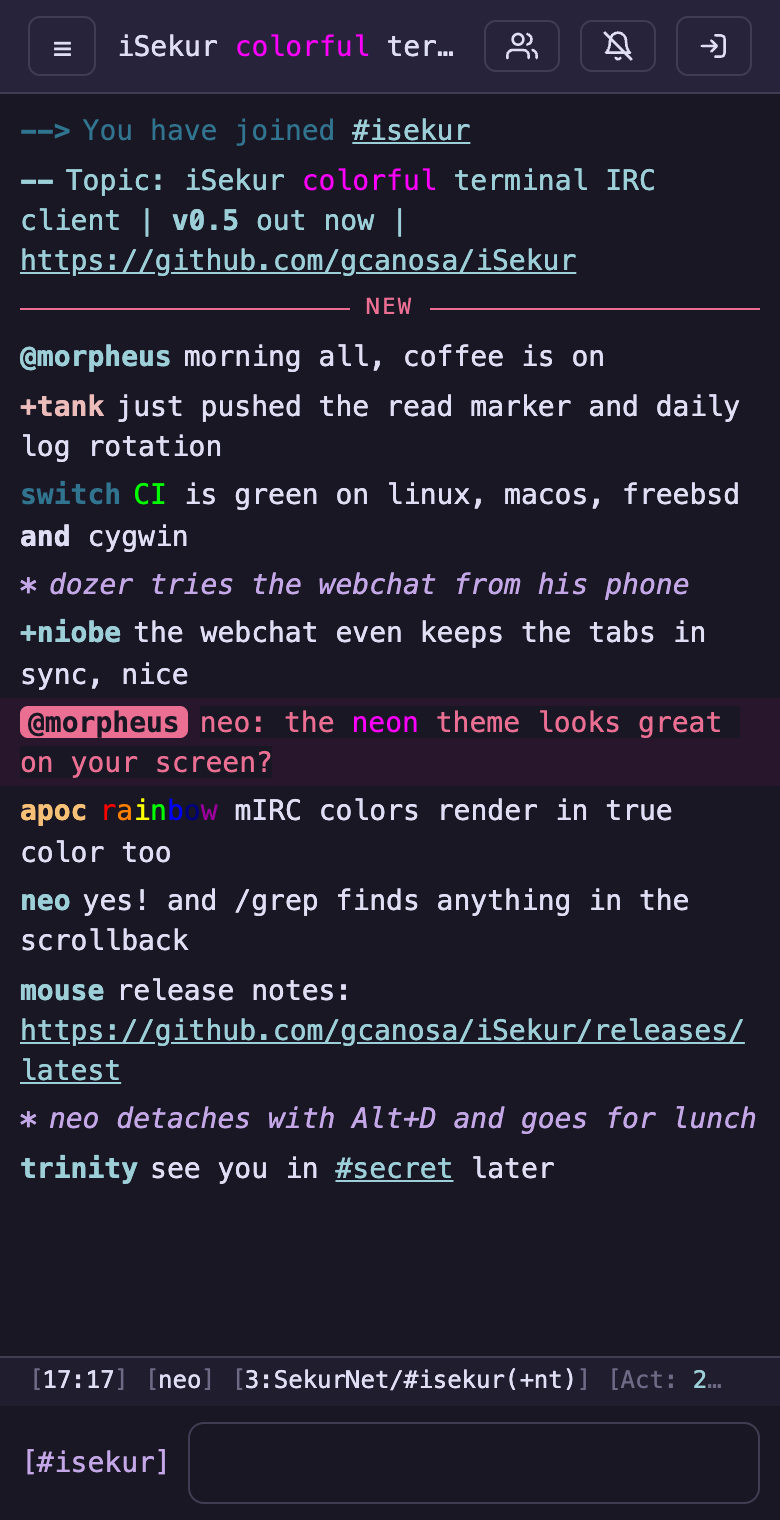
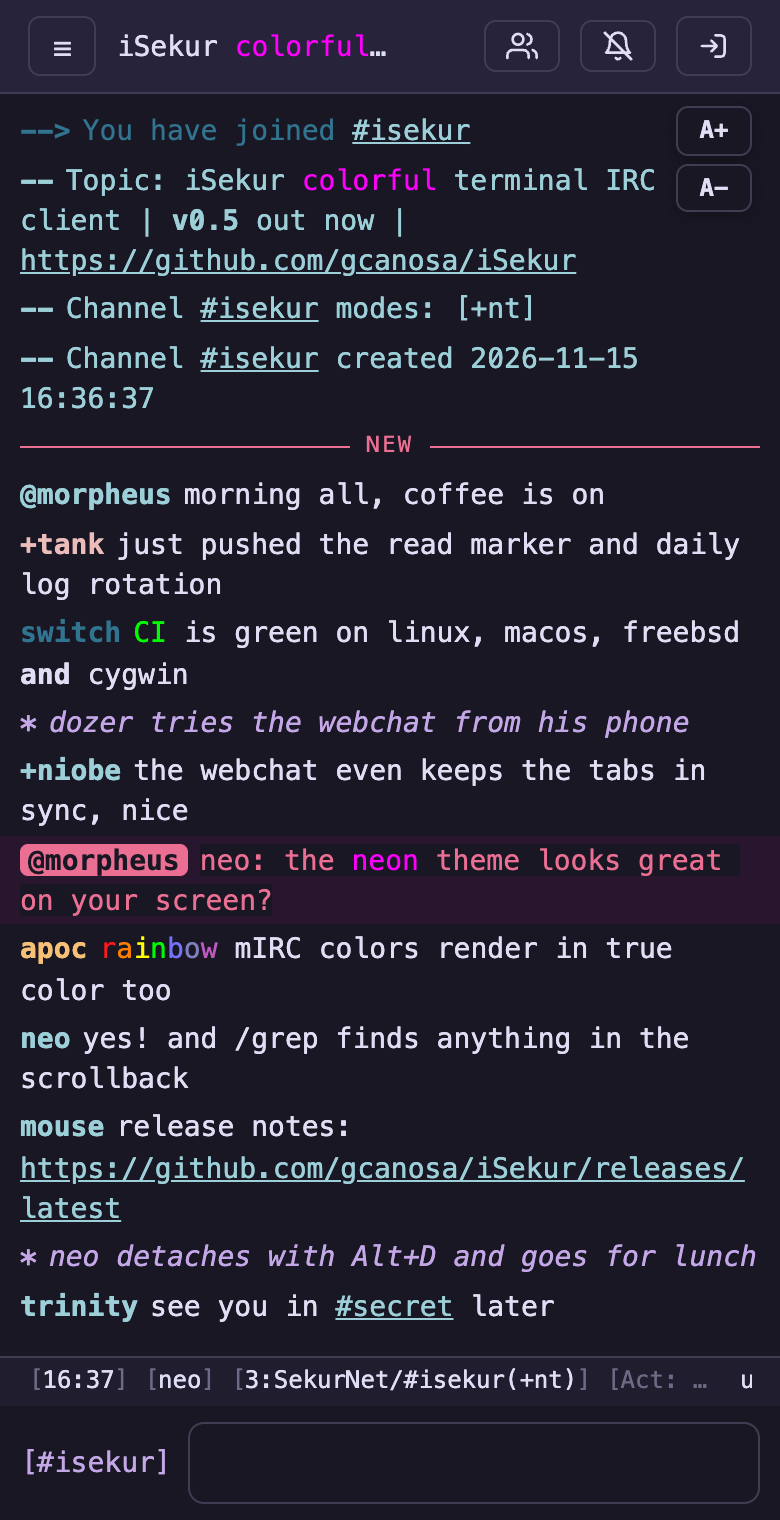
Screenshots retaken from iSekur 0.5.2+: homepage, og card, and every docs image (tools/shots now scripts the doc-* shots too, the webchat ones at 2x). 45 themes, not 37. Homepage trimmed: six short feature cards and a link to the docs, shorter leads, no webchat cards, a shorter security list with th

diff --git a/index.html b/index.html
@@ -4,7 +4,7 @@
 <meta charset="utf-8">
 <meta name="viewport" content="width=device-width, initial-scale=1">
 <title>iSekur — open source terminal IRC client with a webchat</title>
-<meta name="description" content="iSekur is a free, open source terminal IRC client for macOS and Linux: 37 color themes, IRCv3 and SASL, detach and attach like tmux, a built-in webchat that mirrors your session (bouncer style), and end-to-end encrypted chats.">
+<meta name="description" content="iSekur is a free, open source terminal IRC client for macOS and Linux: 45 color themes, IRCv3 and SASL, detach and attach like tmux, a built-in webchat that mirrors your session (bouncer style), and end-to-end encrypted chats.">
 <meta name="keywords" content="IRC client, terminal IRC client, open source IRC, IRCv3, IRC bouncer, webchat, TUI, macOS, Linux, C++">
 <meta name="author" content="Gerardo Canosa">
 <meta name="robots" content="index, follow">
@@ -14,14 +14,14 @@
 <meta property="og:site_name" content="iSekur">
 <meta property="og:url" content="https://gcanosa.github.io/isekur-site/">
 <meta property="og:title" content="iSekur — open source terminal IRC client">
-<meta property="og:description" content="37 themes, IRCv3, detach/attach like tmux, a live webchat, end-to-end encrypted queries and channels. Free for macOS and Linux.">
+<meta property="og:description" content="45 themes, IRCv3, detach/attach like tmux, a live webchat, end-to-end encrypted queries and channels. Free for macOS and Linux.">
 <meta property="og:image" content="https://gcanosa.github.io/isekur-site/img/og.png">
 <meta property="og:image:width" content="1200">
 <meta property="og:image:height" content="630">
 <meta property="og:image:alt" content="iSekur running in a terminal with the Rosé Pine theme">
 <meta name="twitter:card" content="summary_large_image">
 <meta name="twitter:title" content="iSekur — open source terminal IRC client">
-<meta name="twitter:description" content="37 themes, IRCv3, detach/attach like tmux, a live webchat and end-to-end encryption.">
+<meta name="twitter:description" content="45 themes, IRCv3, detach/attach like tmux, a live webchat and end-to-end encryption.">
 <meta name="twitter:image" content="https://gcanosa.github.io/isekur-site/img/og.png">
 <link rel="icon" href="favicon.svg" type="image/svg+xml">
 <script type="application/ld+json">
@@ -131,7 +131,6 @@ section{padding:96px 0 0}
 h2{font:700 clamp(32px,4.5vw,48px)/1.1 var(--sans);letter-spacing:-1px;margin:10px 0 14px}
 .lead{color:var(--muted);font-size:19px;max-width:720px;margin:0 0 40px}
 .grid{display:grid;grid-template-columns:repeat(auto-fill,minmax(300px,1fr));gap:16px}
-#webchat .grid{grid-template-columns:repeat(auto-fit,minmax(240px,1fr))}
 .card{background:linear-gradient(180deg,#1a1830,#141225);border:1px solid var(--line);border-radius:16px;padding:24px;position:relative;overflow:hidden}
 .card::after{content:"";position:absolute;inset:0;border-radius:inherit;pointer-events:none;background:radial-gradient(400px 120px at 0 0,var(--c,#c792ea)18,transparent)}
 .card .ic{font:700 15px var(--mono);color:var(--c,var(--violet));background:color-mix(in srgb,var(--c,#c792ea) 14%,transparent);border:1px solid color-mix(in srgb,var(--c,#c792ea) 35%,transparent);display:inline-block;padding:4px 10px;border-radius:8px;margin-bottom:14px}
@@ -240,7 +239,7 @@ footer a{color:var(--muted);text-decoration:underline}
 <header class="hero wrap">
   <span class="badge"><i></i><span id="ver">latest release</span> · GPL-3.0 · C++17</span>
   <h1>iSekur<span class="sr"> — open source terminal IRC client</span><span class="cur"></span></h1>
-  <p class="tag">A small, <em>very colorful</em> terminal IRC client, with a built-in webchat that mirrors your live session in a browser, bouncer style.</p>
+  <p class="tag">A small, <em>very colorful</em> terminal IRC client. Your live session opens in a browser too.</p>
   <div class="cta">
     <a class="btn primary" href="#install">Get iSekur →</a>
     <a class="btn" href="docs.html">Read the docs</a>
@@ -252,7 +251,7 @@ footer a{color:var(--muted);text-decoration:underline}
     <div class="term" id="term">
       <div class="tbar"><i></i><i></i><i></i><span>isekur</span></div>
       <div class="scr" id="scr">
-        <div class="row" data-c="topic">iSekur <b>colorful</b> terminal IRC client | <b>37 themes</b> | github.com/gcanosa/iSekur</div>
+        <div class="row" data-c="topic">iSekur <b>colorful</b> terminal IRC client | <b>45 themes</b> | github.com/gcanosa/iSekur</div>
         <div class="row" data-c="tabbar"><span data-c="tab_home" class="b"> 1:cmd </span> <span data-c="tab_server"> 2:SekurNet </span> <span data-c="tab_active"> 3:#isekur </span> <span data-c="tab_data"> 4:#linux </span> <span data-c="tab_msg"> 5:#retro </span> <span data-c="tab_hilight"> 6:#secret 🔒</span></div>
         <div class="body">
           <div class="chat" id="chat"></div>
@@ -280,25 +279,22 @@ footer a{color:var(--muted);text-decoration:underline}
 <section id="features">
   <div class="kicker">Features</div>
   <h2>Everything you want from IRC.<br>Nothing you have to fight.</h2>
-  <p class="lead">One small binary, OpenSSL and a config file it writes for you. A first-steps guide opens on the first start.</p>
+  <p class="lead">One small binary. A first-steps guide opens on the first start.</p>
   <div class="grid">
-    <div class="card" style="--c:#ff5fd7"><span class="ic">37 themes</span><h3>Truly colorful</h3><p>24-bit color themes, dark and light, from neon and dracula to the classic mIRC look, with a 256-color fallback. <code>/theme</code> opens a live picker.</p></div>
-    <div class="card" style="--c:#7dcfff"><span class="ic">Alt+D</span><h3>Detach &amp; attach like tmux</h3><p>Leave it running, come back from any terminal or SSH login with <code>isekur --attach</code>. A dropped connection detaches instead of quitting.</p></div>
-    <div class="card" style="--c:#9ece6a"><span class="ic">IRCv3</span><h3>Modern IRC</h3><p>TLS with verification, CAP 302, SASL PLAIN / SCRAM-SHA-256 / EXTERNAL, server-time, echo-message, chathistory catch-up and more.</p></div>
-    <div class="card" style="--c:#ffcb6b"><span class="ic">webchat</span><h3>Your session in a browser</h3><p>HTTPS + WebSocket mirror of the live client. Installs as an app, with notifications for highlights and private messages.</p></div>
-    <div class="card" style="--c:#c792ea"><span class="ic">🔒 e2e</span><h3>Encrypted queries &amp; channels</h3><p>AES-256-GCM between iSekur users, with a key from scrypt. A lock on every encrypted line and tab.</p></div>
-    <div class="card" style="--c:#ff9e64"><span class="ic">/shell</span><h3>A real terminal in a tab</h3><p>vim, top and ssh run in a tab, behind a PAM login. <code>/attach host</code> brings another machine's iSekur in live.</p></div>
-    <div class="card" style="--c:#e0af68"><span class="ic">fifo</span><h3>Scripts drive iSekur</h3><p>Write a line to the pipe and it runs as if typed, in any tab: <code>printf '%s\n' 'sekurnet/#chan|\bdeploy\b done' &gt; ~/.config/isekur/fifo</code>. Each running iSekur has its own pipe.</p></div>
-    <div class="card" style="--c:#82aaff"><span class="ic">mouse</span><h3>Click everything</h3><p>Tabs, activity numbers, nicks, links (OSC 8), right-click menus, wheel scrolling, drag to copy through OSC 52.</p></div>
-    <div class="card" style="--c:#f7768e"><span class="ic">@ops</span><h3>Channel op tools</h3><p><code>/lockdown</code>, <code>/kickban</code>, <code>/tempban</code>, mass op/voice/kick, <code>/chanstats</code>, <code>/topicrotate</code>, and a <code>*snotices</code> tab for opers.</p></div>
-    <div class="card" style="--c:#38d9a9"><span class="ic">more</span><h3>The small things</h3><p>Flood-safe pastes, <code>/grep</code> through the scrollback, a "new" marker, highlights, DCC with resume, Twitch chat, logs, a CPU/battery status bar.</p></div>
+    <div class="card" style="--c:#ff5fd7"><span class="ic">45 themes</span><h3>Truly colorful</h3><p>Dark and light 24-bit themes, from neon to the classic mIRC look. <code>/theme</code> previews them live.</p></div>
+    <div class="card" style="--c:#7dcfff"><span class="ic">Alt+D</span><h3>Detach &amp; attach</h3><p>Like tmux, built in. Come back from any terminal or SSH login.</p></div>
+    <div class="card" style="--c:#ffcb6b"><span class="ic">webchat</span><h3>Your session in a browser</h3><p>The same live session on your phone, installable as an app.</p></div>
+    <div class="card" style="--c:#c792ea"><span class="ic">🔒 e2e</span><h3>Encrypted chats</h3><p>Queries and channels only the people with the password can read.</p></div>
+    <div class="card" style="--c:#9ece6a"><span class="ic">IRCv3</span><h3>Modern IRC</h3><p>TLS, SASL, chat history, replies, reactions and typing.</p></div>
+    <div class="card" style="--c:#ff9e64"><span class="ic">/shell</span><h3>A terminal in a tab</h3><p>vim, top and ssh in a tab, behind your login.</p></div>
   </div>
+  <p style="margin-top:18px">And op tools, DCC, Twitch, scripts, aliases, mouse support… <a href="docs.html">all in the docs →</a></p>
 </section>
 
 <section id="themes">
   <div class="kicker">The real thing</div>
-  <h2>Same chat, six of the 37 themes.</h2>
-  <p class="lead">Screenshots of iSekur running in a terminal. A theme changes everything: the bars, the tabs, the nicklist, the timestamps, the nick colors, even the layout (mIRC puts <code>&lt;nicks&gt;</code> inline).</p>
+  <h2>Same chat, six of the 45 themes.</h2>
+  <p class="lead">Real screenshots. A theme changes the bars, tabs, nicklist, nick colors, even the layout.</p>
   <div class="gal-tabs" role="tablist"><button role="tab" aria-selected="true" data-g="mirc">mIRC</button><button role="tab" aria-selected="false" data-g="rose-pine">Rosé Pine</button><button role="tab" aria-selected="false" data-g="ayu">Ayu</button><button role="tab" aria-selected="false" data-g="neon">Neon</button><button role="tab" aria-selected="false" data-g="catppuccin-latte">Catppuccin Latte</button><button role="tab" aria-selected="false" data-g="dracula">Dracula</button></div>
   <div class="gal" id="gal"><img class="on" data-g="mirc" src="img/chat-mirc.png" alt="iSekur in the mIRC theme: topic bar, tabs, chat with a new marker, nicklist and status bar" width="1718" height="960"><img data-g="rose-pine" src="img/chat-rose-pine.png" alt="iSekur in the Rosé Pine theme: topic bar, tabs, chat with a new marker, nicklist and status bar" width="1718" height="960"><img data-g="ayu" src="img/chat-ayu.png" alt="iSekur in the Ayu theme: topic bar, tabs, chat with a new marker, nicklist and status bar" width="1718" height="960"><img data-g="neon" src="img/chat-neon.png" alt="iSekur in the Neon theme: topic bar, tabs, chat with a new marker, nicklist and status bar" width="1718" height="960"><img data-g="catppuccin-latte" src="img/chat-catppuccin-latte.png" alt="iSekur in the Catppuccin Latte theme: topic bar, tabs, chat with a new marker, nicklist and status bar" width="1718" height="960"><img data-g="dracula" src="img/chat-dracula.png" alt="iSekur in the Dracula theme: topic bar, tabs, chat with a new marker, nicklist and status bar" width="1718" height="960"></div>
 </section>
@@ -306,7 +302,7 @@ footer a{color:var(--muted);text-decoration:underline}
 <section id="tools">
   <div class="kicker">Built in</div>
   <h2>Windows for everything, inside the terminal.</h2>
-  <p class="lead">No config file spelunking: every setting and every theme is a keystroke away.</p>
+  <p class="lead">Every setting and every theme is a keystroke away.</p>
   <div class="duo">
     <figure><img width="1718" height="1096" class="shot" src="img/theme-picker.png" alt="The /theme picker previewing dayfox live over the chat" loading="lazy"><figcaption><b>/theme</b>: ↑↓ previews each theme live, type to filter, Enter keeps it</figcaption></figure>
     <figure><img width="1718" height="1096" class="shot" src="img/settings.png" alt="The /set settings window with categories and values" loading="lazy"><figcaption><b>/set</b>: every key by category, / searches, e edits, Space toggles</figcaption></figure>
@@ -318,7 +314,7 @@ footer a{color:var(--muted);text-decoration:underline}
     <div class="txt">
       <div class="kicker">Always on</div>
       <h2>Close the laptop.<br>Stay in the channel.</h2>
-      <p class="lead">The IRC side lives in a background process and your terminal is only attached to it. Run several side by side, one config each.</p>
+      <p class="lead">iSekur keeps running in the background. Your terminal just attaches to it.</p>
     </div>
     <pre class="sh"><span class="p">$ </span>isekur              <span class="c"># start, or attach if it's running</span>
   <span class="c">Alt+D / /detach     # back to the shell, still connected</span>
@@ -332,16 +328,10 @@ footer a{color:var(--muted);text-decoration:underline}
 <section id="webchat">
   <div class="kicker">Webchat</div>
   <h2>The same session, on your phone.</h2>
-  <p class="lead">Not a separate client: the browser mirrors the live terminal session, the way a bouncer would. <code>/web start</code> and log in.</p>
+  <p class="lead">The browser mirrors the live terminal session. <code>/web start</code> and log in.</p>
   <div class="webwrap">
     <div class="browser"><div class="tbar"><i></i><i></i><i></i><a href="https://webchat.sekurnet.org" style="text-decoration:none"><span>https://webchat.sekurnet.org</span></a></div><img width="2480" height="1040" src="img/web-rose.png" alt="The iSekur webchat in the Rosé Pine theme: tab list, chat, nicklist, status bar and input line" loading="lazy"></div>
     <div class="phone"><img width="780" height="1520" src="img/web-phone.png" alt="The webchat on a phone" loading="lazy"></div>
-  </div>
-  <div class="grid">
-    <div class="card" style="--c:#7dcfff"><span class="ic">mirror</span><h3>Same everything</h3><p>The same tabs, nick and tab menus, input line, suggestions, status bar and theme colors as the terminal.</p></div>
-    <div class="card" style="--c:#c792ea"><span class="ic">PWA</span><h3>Installs as an app</h3><p>Put it on the home screen or the dock, with notifications for highlights and private messages.</p></div>
-    <div class="card" style="--c:#9ece6a"><span class="ic">login</span><h3>Locked down</h3><p>HTTPS + WebSocket, a PBKDF2 password hash and a lockout after failed tries.</p></div>
-    <div class="card" style="--c:#ffcb6b"><span class="ic">⚙</span><h3>Settings in place</h3><p>⚙ edits every setting with switches and a theme list, + adds a server, ⇅ downloads DCC files, seedbox style.</p></div>
   </div>
   <div class="duo" style="margin-top:28px">
     <figure><div class="browser"><div class="tbar"><i></i><i></i><i></i><span>mIRC theme</span></div><img width="2560" height="1520" src="img/web-mirc.png" alt="The webchat in the mIRC theme" loading="lazy"></div><figcaption>The <b>mIRC</b> theme in the browser…</figcaption></figure>
@@ -354,7 +344,7 @@ footer a{color:var(--muted);text-decoration:underline}
     <div class="txt">
       <div class="kicker">Built-in BNC</div>
       <h2>Your session,<br>in any IRC client.</h2>
-      <p class="lead">iSekur is a bouncer too. irssi, weechat, hexchat, mIRC, a phone app or another iSekur connect to it and share the live session: the same channels, the recent lines, then everything as it happens. Chat history, replies, reactions and typing come along for IRCv3 clients.</p>
+      <p class="lead">iSekur is a bouncer too. irssi, WeeChat, HexChat, mIRC or a phone app connect to it and share the live session.</p>
       <p><a href="docs.html#bnc">Set it up in two minutes →</a></p>
     </div>
     <pre class="sh">  /set bnc.user me
@@ -373,20 +363,19 @@ footer a{color:var(--muted);text-decoration:underline}
       <div class="kicker">Security</div>
       <h2>Private by default.</h2>
       <ul class="ticks">
-        <li><code>/e2e nick</code> or <code>/e2e #chan</code>: AES-256-GCM, keys kept in memory</li>
-        <li><code>/lock on</code>: a master password before any tab, log or message</li>
-        <li><code>/shell</code> checks your login through PAM and is never reachable from the web or IRC</li>
-        <li>TLS certificate verification and SASL out of the box</li>
+        <li><code>/e2e</code>: encrypted queries and channels</li>
+        <li><code>/lock</code>: a password before anything shows, Face ID in the webchat</li>
+        <li>TLS verified and SASL out of the box</li>
       </ul>
     </div>
-    <img class="shot" src="https://raw.githubusercontent.com/gcanosa/iSekur/main/docs/e2e.png" alt="An encrypted channel with a lock on the tab and on every line" >
+    <img class="shot" width="1718" height="1028" src="img/doc-e2e.png" alt="An encrypted channel with a lock on the tab and on every line" loading="lazy">
   </div>
 </section>
 
 <section id="compare">
   <div class="kicker">Compared</div>
   <h2>Where it fits.</h2>
-  <p class="lead">irssi, WeeChat, HexChat, mIRC and The Lounge are fine clients. iSekur puts the bouncer, the webchat and the encryption in one binary, so there's nothing to bolt on.</p>
+  <p class="lead">The bouncer, the webchat and the encryption come in one binary.</p>
   <div class="cmp"><table>
     <thead><tr><th></th><th class="me">iSekur</th><th>WeeChat</th><th>irssi</th><th>HexChat</th><th>mIRC</th><th>The Lounge</th></tr></thead>
     <tbody>
@@ -402,7 +391,7 @@ footer a{color:var(--muted);text-decoration:underline}
       <tr><td>Open source, maintained</td><td class="me y">✓</td><td class="y">✓</td><td class="y">✓</td><td>archived</td><td>shareware</td><td class="y">✓</td></tr>
     </tbody>
   </table></div>
-  <p class="cmp-note">tmux: through screen or tmux. relay / add-on: WeeChat's relay plus a separate app. iSekur attaches over ssh, or as a tab with <code>/attach host</code>. script / plugin / DLL: FiSH or OTR, installed separately. IRCv3: iSekur also speaks the drafts, chathistory, multiline, read markers, redaction, replies, reactions and typing. IRCCloud is left out: it's a hosted service, not a client you install.</p>
+  <p class="cmp-note">tmux, relay, script, plugin: an extra tool or add-on to install.</p>
 </section>
 
 <section id="install">
@@ -434,7 +423,7 @@ footer a{color:var(--muted);text-decoration:underline}
       <a href="https://github.com/gcanosa/iSekur/releases/latest/download/isekur-windows-x86_64.zip"><svg class="os"><use href="#os-windows"/></svg>Windows<small><span class="pill x64"><svg class="arch"><use href="#arch-chip"/></svg>x86_64</span>Cygwin build</small></a>
       <a href="https://github.com/gcanosa/iSekur/releases/latest/download/isekur-src.tar.gz"><svg class="os"><use href="#os-src"/></svg>Source<small>tar.gz</small></a>
     </div>
-    <p class="dlnote">Windows: unzip it anywhere and run <code>isekur.cmd</code> in Windows Terminal. Nothing to install, but it is the newest and least tried build, and Cygwin can't do <code>/shell</code> or detach and attach. For all of iSekur on Windows, use <a href="https://learn.microsoft.com/windows/wsl/install">WSL</a> with the Linux package.</p>
+    <p class="dlnote">Windows: unzip and run <code>isekur.cmd</code>. It can't do <code>/shell</code> or detach; for everything use <a href="https://learn.microsoft.com/windows/wsl/install">WSL</a> with the Linux package.</p>
   </div>
   <div class="panel" id="p-src" hidden><pre class="sh"><span class="c"># needs a C++17 compiler, GNU make, OpenSSL 1.1+/LibreSSL and PAM</span>
 <span class="p">$ </span>git clone https://github.com/gcanosa/iSekur && cd iSekur

diff --git a/docs.html b/docs.html
@@ -211,7 +211,7 @@ man isekur</pre>
 /save                                  <span class="c"># writes them to the file (comments are kept)</span></pre>
 <p>Server settings take effect on the next <code>/connect</code>, and <code>[web]</code> after <code>/web stop</code> and <code>/web start</code>. <code>/reload</code> re-reads the file after you edit it by hand.</p>
 <p>The first start also opens the <a href="#guide">first steps guide</a> in a <code>*guide</code> tab. Its "Don't show this at startup" box sets <code>show_guide = off</code>, and <code>/guide</code> opens it again.</p>
-<figure class="shot"><a href="img/doc-welcome.png" target="_blank" rel="noopener"><img width="1722" height="1024" src="img/doc-welcome.png" alt="The iSekur welcome tab with the banner" loading="lazy"></a><figcaption>The cmd tab after starting: the banner in the theme's colors, the <code>/guide</code> hint and where the webchat listens</figcaption></figure>
+<figure class="shot"><a href="img/doc-welcome.png" target="_blank" rel="noopener"><img width="1718" height="1028" src="img/doc-welcome.png" alt="The iSekur welcome tab with the banner" loading="lazy"></a><figcaption>The cmd tab after starting: the banner in the theme's colors, the <code>/guide</code> hint and where the webchat listens</figcaption></figure>
 <div class="tip">The quickest way in: <code>/server irc.sekurnet.org 6697 -tls -name sekurnet</code>, then <code>/join #iSekur</code>. That's iSekur's own channel, for help and feedback.</div>
 
 <h2 id="guide">First steps guide</h2>
@@ -231,7 +231,7 @@ man isekur</pre>
 </ul>
 
 <figure class="shot"><a href="img/chat-rose-pine.png" target="_blank" rel="noopener"><img width="1718" height="960" src="img/chat-rose-pine.png" alt="The iSekur screen in the Rosé Pine theme" loading="lazy"></a><figcaption>Top to bottom: topic bar, tabs, chat with the "new" marker and the nicklist, status bar, input line (Rosé Pine theme)</figcaption></figure>
-<div class="duo"><figure class="shot"><a href="img/doc-list.png" target="_blank" rel="noopener"><img width="1722" height="1024" src="img/doc-list.png" alt="The channel list table" loading="lazy"></a><figcaption><code>/list</code> opens a sortable table: double click a channel to join. The status bar shows CPU, memory and load (<code>/statusbar</code>)</figcaption></figure><figure class="shot"><a href="img/doc-whois.png" target="_blank" rel="noopener"><img width="1722" height="1024" src="img/doc-whois.png" alt="A whois reply" loading="lazy"></a><figcaption><code>/whois</code> answers in a box, in the tab you asked from</figcaption></figure></div>
+<div class="duo"><figure class="shot"><a href="img/doc-list.png" target="_blank" rel="noopener"><img width="1718" height="1028" src="img/doc-list.png" alt="The channel list table" loading="lazy"></a><figcaption><code>/list</code> opens a sortable table: double click a channel to join. The status bar shows CPU, memory and load (<code>/statusbar</code>)</figcaption></figure><figure class="shot"><a href="img/doc-whois.png" target="_blank" rel="noopener"><img width="1718" height="1028" src="img/doc-whois.png" alt="A whois reply" loading="lazy"></a><figcaption><code>/whois</code> answers in a box, in the tab you asked from</figcaption></figure></div>
 <h2 id="keys">Keys</h2>
 <table>
 <tr><th>Key</th><th>Action</th></tr>
@@ -252,7 +252,7 @@ man isekur</pre>
 <tr><td><kbd>Alt+Backspace</kbd></td><td>Delete the previous word</td></tr>
 <tr><td><kbd>Ctrl+B</kbd> <kbd>C</kbd> <kbd>O</kbd> <kbd>V</kbd> <kbd>]</kbd> <kbd>_</kbd></td><td>mIRC formatting: bold, color, reset, reverse, italic, underline</td></tr>
 </table>
-<div class="duo"><figure class="shot"><a href="img/doc-suggest.png" target="_blank" rel="noopener"><img width="1722" height="1024" src="img/doc-suggest.png" alt="Live command suggestions above the input line" loading="lazy"></a><figcaption>Typing a command lists what fits, with its arguments: <kbd>↑</kbd> <kbd>↓</kbd> pick, <kbd>Tab</kbd> completes</figcaption></figure><figure class="shot"><a href="img/doc-find.png" target="_blank" rel="noopener"><img width="1722" height="1024" src="img/doc-find.png" alt="The tab finder" loading="lazy"></a><figcaption><kbd>Ctrl+G</kbd> finds a tab by part of its name, Enter goes there</figcaption></figure></div>
+<div class="duo"><figure class="shot"><a href="img/doc-suggest.png" target="_blank" rel="noopener"><img width="1718" height="1028" src="img/doc-suggest.png" alt="Live command suggestions above the input line" loading="lazy"></a><figcaption>Typing a command lists what fits, with its arguments: <kbd>↑</kbd> <kbd>↓</kbd> pick, <kbd>Tab</kbd> completes</figcaption></figure><figure class="shot"><a href="img/doc-find.png" target="_blank" rel="noopener"><img width="1718" height="1028" src="img/doc-find.png" alt="The tab finder" loading="lazy"></a><figcaption><kbd>Ctrl+G</kbd> finds a tab by part of its name, Enter goes there</figcaption></figure></div>
 <p>On a Mac, Option works as Alt (Option+D detaches). Rebind any action in the <code>[keys]</code> section: <code>M-</code> is Alt, <code>C-</code> Ctrl, <code>D-</code> Cmd. See <a href="#set-keys">[keys]</a>.</p>
 
 <h2 id="mouse">Mouse</h2>
@@ -265,7 +265,7 @@ man isekur</pre>
   <li>Double click a <code>#channel</code> anywhere to join it.</li>
 </ul>
 
-<figure class="shot"><a href="img/doc-nickmenu.png" target="_blank" rel="noopener"><img width="1722" height="1024" src="img/doc-nickmenu.png" alt="The nick right-click menu" loading="lazy"></a><figcaption>Right click a nick: query, whois, CTCPs, ignore, plus op tools when your rank allows</figcaption></figure>
+<figure class="shot"><a href="img/doc-nickmenu.png" target="_blank" rel="noopener"><img width="1718" height="1028" src="img/doc-nickmenu.png" alt="The nick right-click menu" loading="lazy"></a><figcaption>Right click a nick: query, whois, CTCPs, ignore, plus op tools when your rank allows</figcaption></figure>
 <h2 id="detach">Detach and attach</h2>
 <p>iSekur runs like a tmux session. The IRC side lives in a background process, and your terminal is only attached to it.</p>
 <pre>isekur              <span class="c"># start (or attach, if it's already running)</span>
@@ -367,15 +367,15 @@ backlog       = 50                  <span class="c"># lines of each tab a client
 <h3>Lock: /lock</h3>
 <p><code>/lock on</code> sets a master password. From then on, iSekur shows only a password box at startup, on every <code>--attach</code> and after <code>/lock</code>, before any tab, log or message. Three wrong tries wait a minute. <code>/lock off</code> asks for it before turning it off, and <code>/lock on</code> again changes it. It is also asked before changing what would let a hijacked webchat session reach further: <code>exec_web</code>, <code>dcc_web</code>, <code>dcc_dir</code>, the <code>[web]</code> and <code>[bnc]</code> settings and <code>/bnc password</code>.</p>
 <div class="tip warn">It locks the screen, not the files: the config and logs aren't encrypted. Forgot the password? Stop iSekur (<code>pkill isekur</code>), set <code>lock = off</code> in the config and start it again.</div>
-<figure class="shot"><a href="img/doc-lock.png" target="_blank" rel="noopener"><img width="1722" height="1024" src="img/doc-lock.png" alt="The iSekur lock screen" loading="lazy"></a><figcaption><code>/lock</code>: nothing of the session shows until the password is typed</figcaption></figure>
+<figure class="shot"><a href="img/doc-lock.png" target="_blank" rel="noopener"><img width="1718" height="1028" src="img/doc-lock.png" alt="The iSekur lock screen" loading="lazy"></a><figcaption><code>/lock</code>: nothing of the session shows until the password is typed</figcaption></figure>
 <h3>Encrypted private chats: /e2e nick</h3>
 <p><code>/e2e nick</code> (alias <code>/sq</code>) asks for a password, typed hidden, and invites the other person. They accept with <code>/e2e yournick</code> and the same password. A matching password turns on AES-256-GCM for that query, with the key derived by scrypt, and both sides see 🔒. A wrong one is reported to both and nothing is encrypted. Keys stay in memory only, and <code>/e2e off</code> ends it on both sides: the line it sends is sealed with the key, so a line anyone else could send (the server included) can't end a chat that is on, fail it or replace its key. A new invitation from the same nick waits for your <code>/e2e nick</code>.</p>
 <h3>Encrypted channels: /e2e #chan</h3>
 <p><code>/e2e #chan</code> (or "Turn on E2E" in the tab menu) encrypts what you say there. Everyone who typed the same password reads it, marked 🔒 on each line and on the tab. Everyone else sees <code>+iSE</code> noise. There's no handshake, so a wrong password only shows when the others' lines don't open. To drop someone, change the password. For autojoin channels the key (not the password) is saved in <code>e2e_keys</code>, so a restart doesn't ask again.</p>
-<div class="duo"><figure class="shot"><a href="img/doc-e2e.png" target="_blank" rel="noopener"><img width="1722" height="1024" src="img/doc-e2e.png" alt="An E2E encrypted channel in the terminal" loading="lazy"></a><figcaption>An encrypted channel in the terminal: 🔒 on the tab and every line. cypher has the wrong password</figcaption></figure><figure class="shot"><div class="browser"><div class="bar"><i></i><i></i><i></i><span>https://webchat.sekurnet.org</span></div><a href="img/doc-web-e2e.png" target="_blank" rel="noopener"><img width="1100" height="640" src="img/doc-web-e2e.png" alt="An E2E encrypted channel in the webchat" loading="lazy"></a></div><figcaption>The same channel in the webchat</figcaption></figure></div>
+<div class="duo"><figure class="shot"><a href="img/doc-e2e.png" target="_blank" rel="noopener"><img width="1718" height="1028" src="img/doc-e2e.png" alt="An E2E encrypted channel in the terminal" loading="lazy"></a><figcaption>An encrypted channel in the terminal: 🔒 on the tab and every line. cypher has the wrong password</figcaption></figure><figure class="shot"><div class="browser"><div class="bar"><i></i><i></i><i></i><span>https://webchat.sekurnet.org</span></div><a href="img/doc-web-e2e.png" target="_blank" rel="noopener"><img width="1100" height="640" src="img/doc-web-e2e.png" alt="An E2E encrypted channel in the webchat" loading="lazy"></a></div><figcaption>The same channel in the webchat</figcaption></figure></div>
 <h3>A real shell: /shell</h3>
 <p><code>/shell</code> opens your <code>$SHELL</code> as a login shell in a tab, after checking this machine's login and password through PAM (<code>pam_service</code>, default <code>login</code>). vim, top, ssh and Ctrl+C all work. Three wrong logins lock it for a minute. It's never reachable from the webchat or from IRC, only from the terminal iSekur runs in.</p>
-<figure class="shot"><a href="img/doc-shell-login.png" target="_blank" rel="noopener"><img width="1752" height="1088" src="img/doc-shell-login.png" alt="The /shell login dialog" loading="lazy"></a><figcaption><code>/shell</code> asks for this machine's login, checked through PAM</figcaption></figure>
+<figure class="shot"><a href="img/doc-shell-login.png" target="_blank" rel="noopener"><img width="1718" height="1028" src="img/doc-shell-login.png" alt="The /shell login dialog" loading="lazy"></a><figcaption><code>/shell</code> asks for this machine's login, checked through PAM</figcaption></figure>
 <h3>Shell commands: /exec</h3>
 <p><code>/exec ls -la</code> (alias <code>/sh</code>) streams the output into the cmd tab. It runs in bash or zsh: your login shell when it is one of them. <code>/exec -o uptime</code> says it in the current channel. Commands are killed after <code>exec_timeout</code> seconds, and the webchat can't run them unless <code>exec_web = on</code>.</p>
 
@@ -398,7 +398,7 @@ printf '%s\n' 'sekurnet/#chan|hello' &gt; ~/.config/isekur/fifo</pre>
 <div class="tip warn">POSIX only (Linux, macOS, BSDs, Cygwin): native Windows has no named pipes. The pipe is owner-only, ignored while iSekur is locked, and removed at exit.</div>
 
 <h2 id="themes">Themes</h2>
-<p>iSekur comes with 37 24-bit color themes, with a 256-color fallback for terminals that need it (<code>colors = 256</code>). <code>/theme</code> alone opens a picker that previews each one live; <code>/theme name</code> switches directly. Themes are saved without <code>/save</code>.</p>
+<p>iSekur comes with 45 24-bit color themes, with a 256-color fallback for terminals that need it (<code>colors = 256</code>). <code>/theme</code> alone opens a picker that previews each one live; <code>/theme name</code> switches directly. Themes are saved without <code>/save</code>.</p>
 <p>Dark: default, neon, dracula, tokyonight, catppuccin-mocha, gruvbox, nord, onedark, rose-pine, kanagawa, solarized, github-dark, everforest, ayu, nightfox, night-owl, material, contrast-dark. Light: tokyonight-day, catppuccin-latte, gruvbox-light, rose-pine-dawn, solarized-light, github-light, one-light, kanagawa-lotus, nord-light, everforest-light, ayu-light, dayfox, light-owl, material-lighter, contrast-light. Classic: mirc, mirc-dark. <a href="./#themes">See them on the home page.</a></p>
 <div class="duo"><figure class="shot"><a href="img/theme-picker.png" target="_blank" rel="noopener"><img width="1718" height="1096" src="img/theme-picker.png" alt="The theme picker" loading="lazy"></a><figcaption><code>/theme</code>: ↑↓ previews each theme live over your chat</figcaption></figure><figure class="shot"><a href="img/chat-mirc.png" target="_blank" rel="noopener"><img width="1718" height="960" src="img/chat-mirc.png" alt="The mIRC theme" loading="lazy"></a><figcaption>mirc: inline <code>&lt;nicks&gt;</code> and brackets, set by the theme's <code>[layout]</code></figcaption></figure></div>
 <h3>Writing your own</h3>
@@ -605,7 +605,7 @@ end)</pre>
 
 <h2 id="commands"><small>Reference</small>Commands</h2>
 <p>Every command, as <code>/help command</code> shows it. Words in grey are arguments, <code>[ ]</code> marks optional ones and <code>|</code> separates choices. Any command iSekur doesn't know goes to the server unchanged.</p>
-<figure class="shot"><a href="img/doc-help-server.png" target="_blank" rel="noopener"><img width="1722" height="1024" src="img/doc-help-server.png" alt="The /help server output" loading="lazy"></a><figcaption><code>/help server</code> in the app: the same text and examples as below</figcaption></figure>
+<figure class="shot"><a href="img/doc-help-server.png" target="_blank" rel="noopener"><img width="1718" height="1028" src="img/doc-help-server.png" alt="The /help server output" loading="lazy"></a><figcaption><code>/help server</code> in the app: the same text and examples as below</figcaption></figure>
 <div><div class="search"><input id="q" type="search" placeholder="Filter commands: name, word, e.g. ban, tls, away…" aria-label="Filter commands"></div>
 <div id="cmds"><p class="empty">Loading…</p></div></div>
 

diff --git a/tools/shots/web.js b/tools/shots/web.js
@@ -20,5 +20,16 @@ const { chromium } = require(process.env.PWC);
   await p.screenshot({ path: "out/web-mirc.png" });
   await p.click("#setbtn"); await p.waitForTimeout(1500);
   await p.screenshot({ path: "out/web-set.png" });
+  // docs section: login, an E2E channel, the Servers window
+  const d = await b.newContext({ ignoreHTTPSErrors: true, deviceScaleFactor: 2, viewport: { width: 1100, height: 640 } });
+  const r = await d.newPage(); await r.goto(url); await r.waitForTimeout(800);
+  await r.screenshot({ path: "out/doc-web-login.png" });
+  await r.fill("#lu", "me"); await r.fill("#lp", "shot"); await r.press("#lp", "Enter");
+  await r.waitForSelector("#msgs >> text=see you in", { timeout: 15000 });
+  await r.fill("#line", "/theme rose-pine"); await r.press("#line", "Enter"); await r.waitForTimeout(1200);
+  await r.click("#side .tab >> text=#secret"); await r.waitForTimeout(1200);
+  await r.screenshot({ path: "out/doc-web-e2e.png" });
+  await r.click("#addsrv"); await r.waitForTimeout(1200);
+  await r.screenshot({ path: "out/doc-web-servers.png" });
   await b.close();
 })().catch(e => { console.error(e); process.exit(1); });

diff --git a/tools/shots/og.html b/tools/shots/og.html
@@ -5,4 +5,4 @@ h1{position:absolute;left:68px;top:40px;margin:0;font:700 112px/1.2 ui-monospace
 p{position:absolute;left:68px;top:176px;width:440px;margin:0;font:700 26px/1.45 -apple-system,sans-serif}
 .f{position:absolute;left:68px;bottom:56px;font:22px ui-monospace,"SF Mono",Menlo,monospace;color:#b9b3c8}
 img{position:absolute;left:520px;top:80px;width:704px}
-</style><div id="og"><h1>iSekur</h1><p>A colorful, open source terminal IRC client with a built-in webchat.</p><img src="out/chat-rose-pine.png"><div class="f">37 themes · IRCv3 · E2E · macOS &amp; Linux</div></div>
+</style><div id="og"><h1>iSekur</h1><p>A colorful, open source terminal IRC client with a built-in webchat.</p><img src="out/chat-rose-pine.png"><div class="f">45 themes · IRCv3 · E2E · macOS &amp; Linux</div></div>

diff --git a/tools/shots/scene.py b/tools/shots/scene.py
@@ -11,17 +11,17 @@ HASH = "pbkdf2$sha256$200000$rN4UvnbV7WAxmxQq/JgxkA==$vV4biqDvfNxWzUO6h0CYLACPNE
 
 srv = Server(name="irc.sekurnet.org", cfg={"server": {"network": "SekurNet"}}).start()
 open(f"{HERE}/pids", "w").write(str(srv.proc.pid))
-bots = {n: srv.client(n, realname=n) for n in ["morpheus", "tank", "niobe", "switch", "apoc", "dozer", "mouse", "trinity"]}
+bots = {n: srv.client(n, realname=n) for n in ["morpheus", "tank", "niobe", "switch", "apoc", "dozer", "mouse", "trinity", "cypher"]}
 m = bots["morpheus"]
 for ch in ["#isekur", "#linux", "#retro", "#secret"]:
     m.send(f"JOIN {ch}")
 time.sleep(0.3)
 m.send(f"TOPIC #isekur :iSekur {C}13colorful{O} terminal IRC client | {B}v0.5{B} out now | https://github.com/gcanosa/iSekur")
 for n, b in bots.items():
-    if n != "morpheus": b.send("JOIN #isekur")
+    if n not in ("morpheus", "cypher"): b.send("JOIN #isekur")
 bots["tank"].send("JOIN #retro"); bots["trinity"].send("JOIN #secret")
 time.sleep(0.3)
-m.send("MODE #isekur +vv tank niobe")
+m.send("MODE #isekur +vv tank niobe"); m.send("TOPIC #secret :end-to-end encrypted with /e2e"); m.send("PART #secret")
 import socket, threading
 PX = socket.socket(); PX.bind(("127.0.0.1", 0)); PX.listen(5); PXPORT = PX.getsockname()[1]
 def _pipe(a, b, tag):
@@ -51,6 +51,29 @@ def cap(name):
 def say(n, text, ch="#isekur"):
     bots[n].send(f"PRIVMSG {ch} :{text}"); time.sleep(0.15)
 def act(n, text): say(n, f"\x01ACTION {text}\x01")
+
+import base64, hashlib
+from cryptography.hazmat.primitives.ciphers.aead import AESGCM
+def seal(pw, text, ch="#secret"):  # what /e2e #secret sends (src/e2e.cpp)
+    k = hashlib.scrypt(pw.encode(), salt=b"isekur-chan:" + ch.encode(), n=1 << 15, r=8, p=1, maxmem=128 << 20, dklen=32)
+    nonce = os.urandom(12)
+    return "+iSE " + base64.b64encode(nonce + AESGCM(k).encrypt(nonce, text.encode(), ch.encode())).decode()
+def secret():
+    keys("M-6"); typ("/e2e #secret"); time.sleep(0.5); typ("zion"); time.sleep(1)
+    say("trinity", seal("zion", "the docks at 0600, bring the keys"), "#secret"); pump()
+    typ("copy that. nobody else on the server can read this")
+    bots["cypher"].send("JOIN #secret"); time.sleep(0.2)
+    say("cypher", seal("mouse", "let me in"), "#secret")
+    say("trinity", seal("zion", "cypher keeps trying, wrong password, all he gets is noise"), "#secret")
+    bots["cypher"].send("PART #secret"); time.sleep(0.2)
+    typ("and the key for an autojoin channel is saved, so no password after a restart")
+    say("trinity", seal("zion", "see you there"), "#secret"); time.sleep(0.4); pump()
+def click_nick(nick, button=2):  # SGR mouse report on the nick in the user list
+    rows = tmux("capture-pane", "-t", "s", "-p").splitlines()
+    for y, r in enumerate(rows):
+        x = r.find(nick, 70)
+        if x >= 0: break
+    tmux("send-keys", "-t", "s", "-l", f"\x1b[<{button};{x + 2};{y + 1}M\x1b[<{button};{x + 2};{y + 1}m"); time.sleep(0.4)
 
 def stop():
     typ("/exit -y"); time.sleep(0.8); tmux("kill-server"); time.sleep(0.3)
@@ -116,8 +139,21 @@ elif mode == "ui":
     typ("/set"); time.sleep(0.5)
     keys("Down"); keys("Down"); keys("Down")
     cap("settings"); keys("q"); stop()
+elif mode == "docs":
+    start("tokyonight", 24); chat()
+    keys("M-1"); cap("doc-welcome")
+    keys("M-2"); typ("/list"); time.sleep(1); cap("doc-list"); keys("Escape")
+    keys("M-3"); typ("/whois morpheus"); time.sleep(0.6); cap("doc-whois")
+    tmux("send-keys", "-t", "s", "-l", "/se"); cap("doc-suggest"); keys("C-u"); keys("Escape")
+    keys("C-g"); tmux("send-keys", "-t", "s", "-l", "li"); cap("doc-find"); keys("Escape"); keys("Escape")
+    click_nick("morpheus"); cap("doc-nickmenu"); keys("Escape")
+    typ("/help server"); cap("doc-help-server")
+    secret(); cap("doc-e2e")
+    typ("/shell"); time.sleep(0.5); typ("neo"); tmux("send-keys", "-t", "s", "-l", "secret12"); cap("doc-shell-login"); keys("Escape")
+    keys("M-3"); typ("/lock"); time.sleep(0.4); typ("shot"); time.sleep(0.6); typ("shot"); time.sleep(1); cap("doc-lock"); typ("shot"); time.sleep(0.5)
+    typ("/exit -y"); time.sleep(0.5); typ("shot"); time.sleep(0.8); tmux("kill-server")
 elif mode == "web":
-    start("rose-pine", 22, web=True); chat()
+    start("rose-pine", 22, web=True); secret(); chat()
     print("READY", flush=True)
     while os.path.exists(f"{HERE}/web.hold"): time.sleep(0.5); pump()
     stop()

diff --git a/tools/shots/README.md b/tools/shots/README.md
@@ -1,4 +1,4 @@
-# Homepage screenshots
+# Site screenshots
 
 `./run.sh` replays a scripted chat on a scratch SekurIRCd (`irc.sekurnet.org`, network SekurNet, 8 bot nicks).
 It drives iSekur in `tmux -L iskshot`, turns each `capture-pane -e` into a terminal-window page (`ans2html.py`)
@@ -8,4 +8,6 @@ and `og.html` is the social card. Results go into `../../img`.
 Gotchas the scripts already handle: one ircd per theme (CHATHISTORY would replay earlier runs);
 `flood_interval_ms = 0`; quit with `/exit -y` (killing tmux only detaches iSekur);
 `TERM=xterm-256color` for italics; a short config dir (`/tmp/iskshot`) for the detach socket.
-The `doc-*.png` images in the docs section are not covered yet.
+`scene.py docs` makes the docs section's `doc-*.png` (welcome, /list, whois, suggestions, tab finder, nick menu, /help, E2E, /shell, lock); `web.js` adds `doc-web-*` (login, E2E channel, Servers window).
+The E2E lines are sealed in Python the way `src/e2e.cpp` does it (scrypt + AES-GCM, needs `cryptography`).
+If a run dies midway, check `pgrep -fl 'isekur -c /tmp/iskshot'`: a detached iSekur left behind is reattached by the next run.
